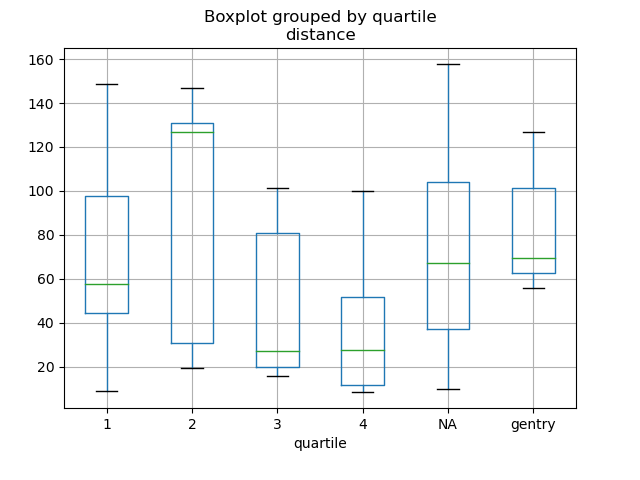
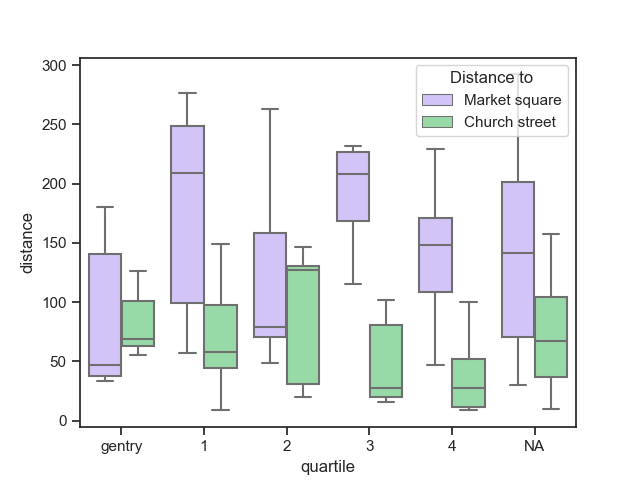
douple boxplot

Changed region(s): [[0.0312, 0.0, 0.9062, 1.0], [0.5625, 0.1875, 0.5938, 0.2188]]

diff --git a/src/visualization/plot_distances.py b/src/visualization/plot_distances.py
@@ -4,15 +4,21 @@ import pandas as pd
 import numpy as np
 import geopandas as gpd
 from shapely.geometry import Point, LineString
+import seaborn as sns
 import matplotlib.pyplot as plt
 
+sns.set_theme(style="ticks", palette="pastel")
 
-color_mapper = {
-    1.0: "grey",
-    2.0: "green",
-    3.0: "blue",
-    4.0: "red",
-}
+
+def distances(data, locations):
+    distance_data = []
+    for k, v in locations.items():
+        d = data.copy()
+        d['landmark'] = k
+        d['distance'] = d.geometry.centroid.distance(v)
+        distance_data.append(d)
+    data = pd.concat(distance_data)
+    return data
 
 
 if __name__ == '__main__':
@@ -23,23 +29,22 @@ if __name__ == '__main__':
 
     plots = gpd.read_file(data_dir / 'plots.shp', index_col=0).set_index('number', drop=True)
     plots = plots.to_crs(epsg=3067)
-    plots['distance'] = plots.geometry.centroid.distance(square)
-    plots = pd.DataFrame(plots)
     plots.quartile.fillna('NA', inplace=True)
     plots['quartile'] = plots.quartile.apply(lambda c: int(c) if not isinstance(c, str) else c)
     gentry = plots.status == 'g'
     plots.loc[gentry, 'quartile'] = 'gentry'
-    # plots.plot(
-    #     x='distance',
-    #     y='tax',
-    #     kind='scatter',
-    #     c='quartile',
-    #     colormap=plt.get_cmap('Set2', 4),
-    #     colorbar=False,
-    # )
-    plots.boxplot(
-        column='distance',
-        by='quartile',
+    plots = distances(plots, {'Market square': square, 'Church street': church_street})
+    order = ['gentry', 1, 2, 3, 4, 'NA']
+    plt.rc('legend', loc='upper center')
+    plot_1 = sns.boxplot(
+        y='distance',
+        x='quartile',
+        hue='landmark',
+        data=plots,
+        order=order,
+        palette=["m", "g"],
     )
-    plt.savefig(fig_dir / 'dist_plot.png')
+    plot_1.get_legend().set_title('Distance to')
     plt.show()
+    fig = plot_1.get_figure()
+    fig.savefig(fig_dir / 'dist_plot.png')
